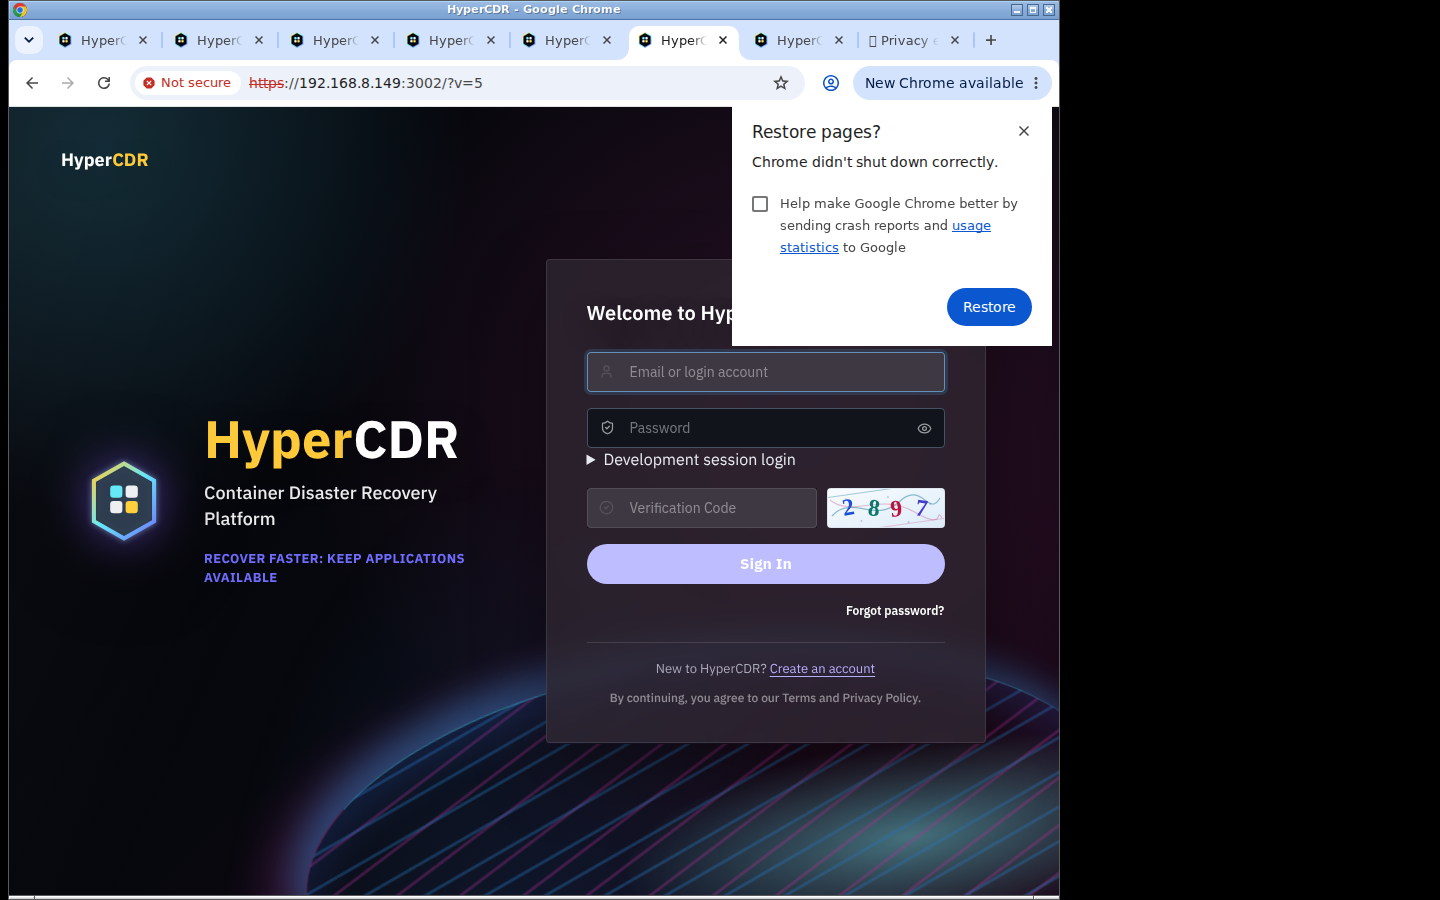
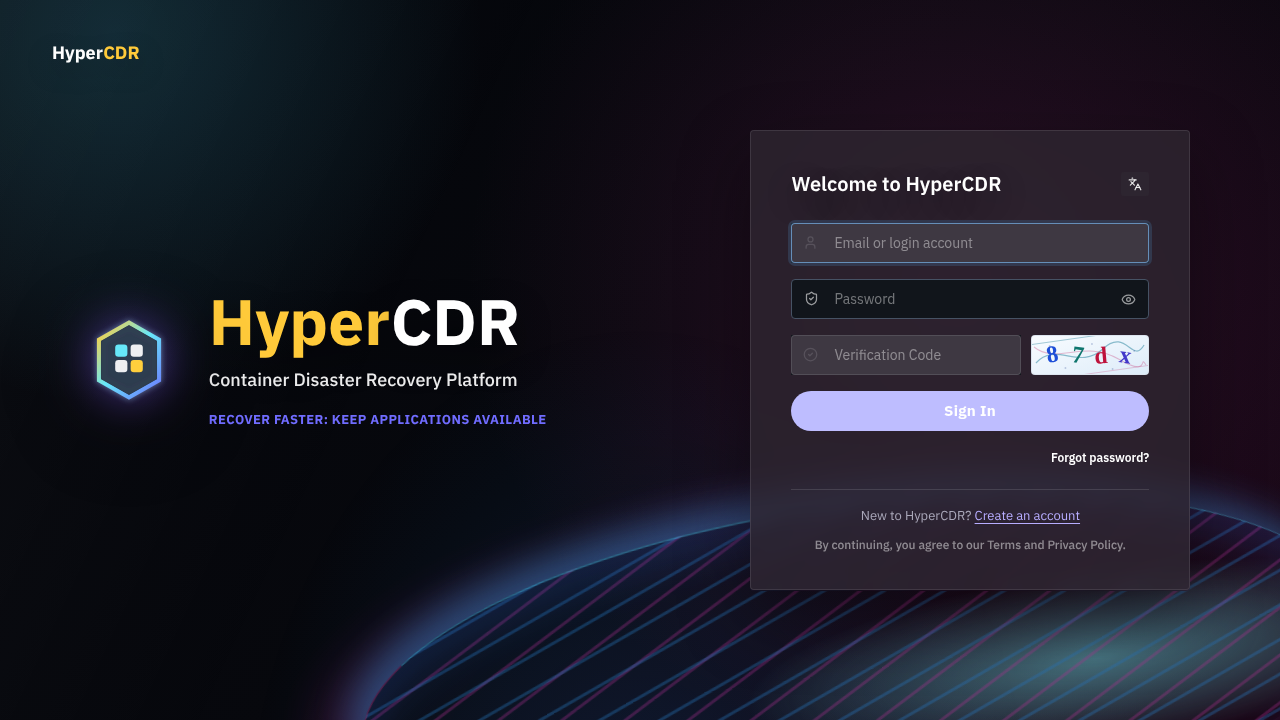
docs: finalize illustrated Chinese product manuals and refresh login capture

diff --git a/docs/README.md b/docs/README.md
@@ -1,14 +1,18 @@
 # HyperCDR 文档
 
-以下入口以当前代码和流程为依据。公开版本及安装包见 [GitHub Releases](https://github.com/oneprolabs/hypercdr/releases)。
+从产品概览开始了解 HyperCDR，再按安装和使用手册完成部署、应用保护与恢复验证。公开版本及安装包见 [GitHub Releases](https://github.com/oneprolabs/hypercdr/releases)。
 
 ## 安装与使用
 
 ### 产品文档
 
-1. [产品概览](product-overview.zh.md)
-2. [产品安装](deployment/product-installation.zh.md)
-3. [产品使用手册](user-guide/product-user-manual.zh.md)
+| 文档 | 适合阅读的场景 |
+| --- | --- |
+| [产品概览](product-overview.zh.md) | 了解产品组成、使用场景、三类集群、保护与恢复概念、权限和能力边界 |
+| [产品安装](deployment/product-installation.zh.md) | 准备部署环境，选择在线或本地包安装，配置登录方式，验收与维护中控平台 |
+| [产品使用手册](user-guide/product-user-manual.zh.md) | 按实机图文步骤完成集群、存储、策略、应用保护、演练、接管和日常管理 |
+
+三份文档均为中文用户文档。图片统一放在 `assets/images/` 对应分类目录，正文通过相对路径引用；下载到本地阅读时，请同时保留图片目录。系统与开发章节用于实现和运维参考，不替代产品手册中的用户操作说明。
 
 ### 运维参考
 

diff --git a/docs/deployment/product-installation.zh.md b/docs/deployment/product-installation.zh.md
@@ -15,7 +15,7 @@
 - [7. 平台维护：升级、回滚和卸载](#7-平台维护升级回滚和卸载)
 - [8. 常见问题](#8-常见问题)
 - [9. 安装产物、服务与目录](#9-安装产物服务与目录)
-- [10. 完整配置参考](#10-完整配置参考)
+- [10. 常用部署配置](#10-常用部署配置)
 - [11. 安装后逐项验收](#11-安装后逐项验收)
 - [12. 平台页面升级与维护边界](#12-平台页面升级与维护边界)
 - [13. 安装故障定位](#13-安装故障定位)
@@ -458,7 +458,9 @@ sudo /var/lib/hypercdr/uninstall.sh --purge-data --remove-images --execute
 
 平台通常由 Edge、蓝/绿 API、蓝/绿前端、PostgreSQL、注册执行器和升级执行器组成；可选产品门户独占 `12445`，不安装门户不影响中控 `12443`。
 
-## 10. 完整配置参考
+## 10. 常用部署配置
+
+以下为安装和维护时常见的配置。通常由安装器生成，只有具备相应权限的部署管理员才应在维护窗口调整；这不是必须逐项手工填写的安装表单。变更前备份原配置，变更后检查受影响服务和登录方式。
 
 | 变量 | 说明 |
 | --- | --- |
